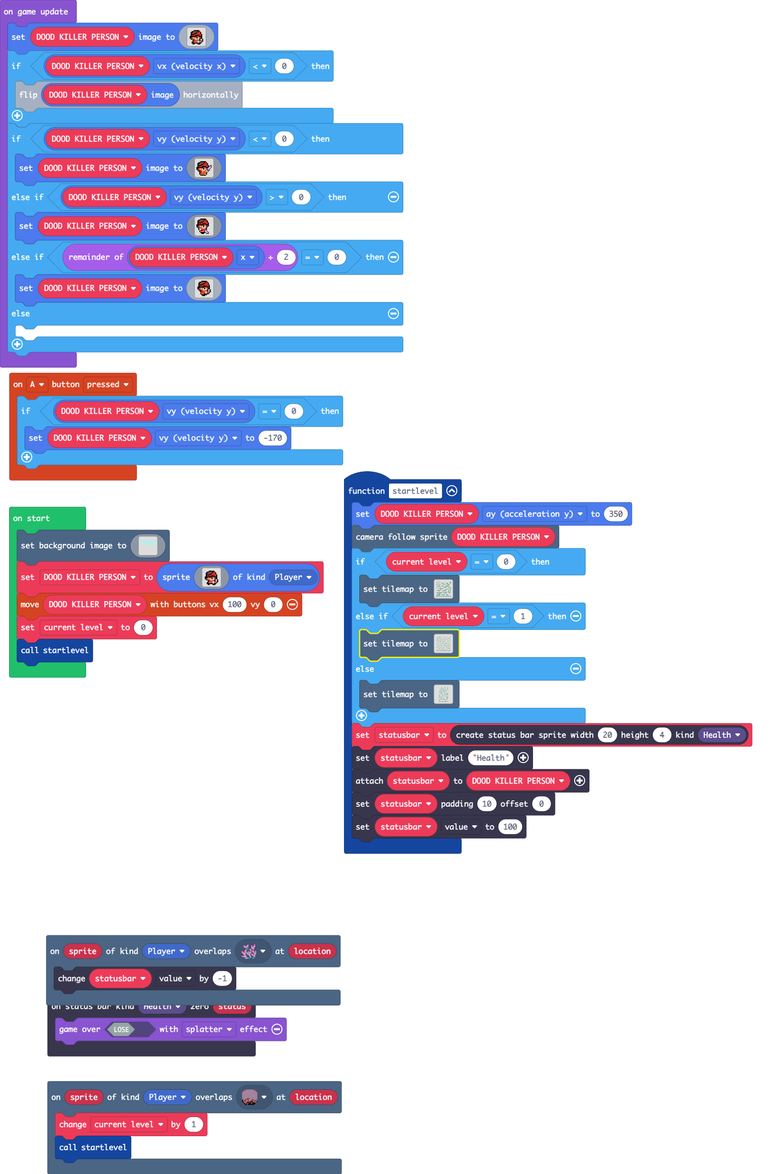
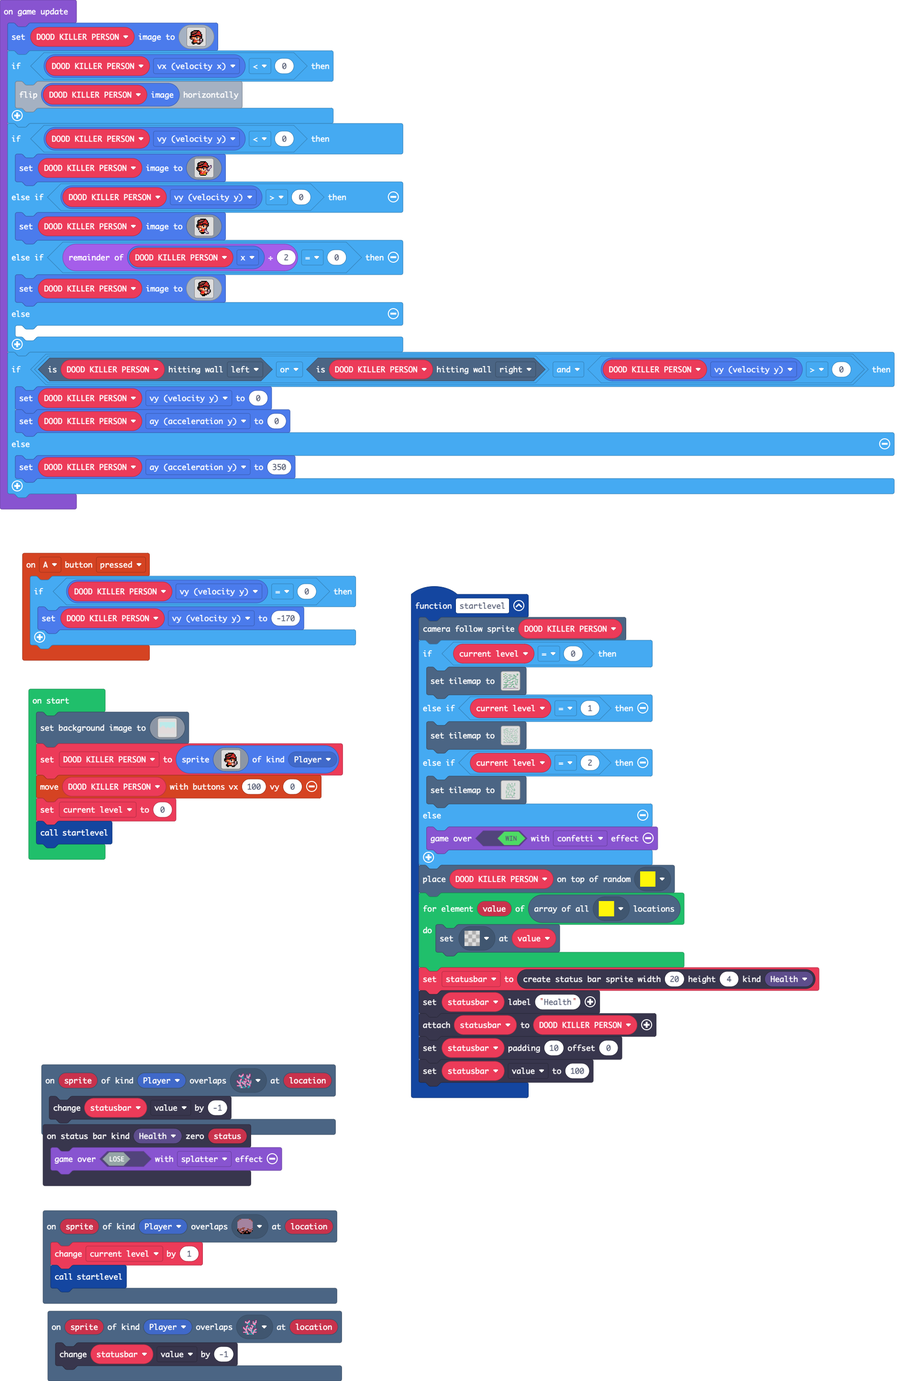
Update pxt.json, main.blocks, main.ts, tilemap.g.jres, tilemap.g.ts, images.g.jres, images.g.ts

diff --git a/tilemap.g.ts b/tilemap.g.ts
@@ -46,7 +46,7 @@ namespace myTiles {
 . . . . . . . . . . . . . . . . 
 `, [myTiles.transparency16], TileScale.Sixteen);
             case "level1":
[2 lines of base64/hex data omitted]
 ....222.......................
 ...........................222
 .22.....2....................2
@@ -77,9 +77,9 @@ namespace myTiles {
 .2222222.............222......
 ..............................
 ..............................
-`, [myTiles.transparency16,sprites.builtin.forestTiles1,sprites.builtin.forestTiles2,sprites.builtin.forestTiles3,sprites.builtin.forestTiles4,sprites.builtin.forestTiles8,sprites.builtin.coral3,sprites.builtin.forestTiles0], TileScale.Sixteen);
+`, [myTiles.transparency16,sprites.builtin.forestTiles1,sprites.builtin.forestTiles2,sprites.builtin.forestTiles3,sprites.builtin.forestTiles4,sprites.builtin.forestTiles8,sprites.builtin.coral3,sprites.builtin.forestTiles0,myTiles.tile1], TileScale.Sixteen);
             case "level4":
-            case "level4":return tiles.createTilemap(hex`3200320000000000000000000000000000000000000000000000000000000000000000000000000000000000000000000000000000000000000000000000000000000000000000000000000000000000000000000000000000000000000000000000000000000000000000000000000000000000010101010101000000000000000000000000000000000000000000000000000000000101010100000000000000000000010101000000000000000000000000000000000000000000000000000000000000000000000000000000000000000001010101000000000000000000000000010103030301010000010101010100000000000000000000000000000000000000000000000000000000000000000000000000000000000001000000000000000000000000000000000000000000000101010101000000000000000000000000000000000000000000000000000000000000000000000000000001010000000000000000000001010000000001010101010000000000000000000000000000000000000000000101010101010000000000000000000000000000000000010100000000000000000000000000000000000000000000000000000000000000000000000000000000000000000000000001000000000000000000000101010000000001010303030000000001000000000000000000000000010103030301000000010100000000010000000000000000000000000000000000000000000100000000000000000000000000000000000100000000000000010101000000000000000000000000000000000000000001010000000001010100000000000000000000000000000000000001000000000000000000000000000000000000000000010000000000000000010100000000000000000100000000000000000000000101010101010303030301010103010000000000000000000000000000030000000101010101010000000000000000000000000000000000000000000000000000000000000000000000000000000003000000000000000001010000010103010000000000000000000000000000000000000000000000000000000000000000000100000000000000000000000000000001010000000000000101000000000000000000000000000000000001030300000000000000000000000000000000000000000001010101000000000000000000010103010000000000010101010000000101000000000000000000000000000000000000000000000000000000000001010101000001000000000000000000000000000000000000000000000001010101000000000000000000000000000101010000000000000000000000000000000000000000000000000000000000000000000100000000000001000000000000010000000000000000000000000000000000000000000000000000000000000000000000010303000000000100000000000000000000000000000000000000000000000000000000000100000000000000000000000000000000000000010000000000000000000000000000010100000000000100000001000000010000000000000000000000000000000000000001000000000101010303010100000000010100000001010000000100000001000000000000000000000000000000000001010100000000000000000000000000000001000000000300000101010000000100000000000000000101000000000000000000000000000000000000000000000101000000000103030000000000000101000000000000000000000100000000000000000000000000000000000000000000000101000000000000000000000000000000000000000000000000010100000000000000000101000000000000000000000000000101010100000000000000000000000000000000000000000000010101000000010101010101000000010000000001000000000000010000000000000000000000000001000000000000000000000000000000000000000000000001000000000001000000000000000000000000000101010000000300000000000000000000000000000000000000000000000100000000000100000000000000000000010000010000000000030000000000000000000000000000000000000000000001010000000000010103030100000000000100000001000000000001000000000000000000010101010000000000000103030100000000000000000000010100000000010000000100000001010100000000000000000000000001010000000000010000000000000000000000000000000000010100000001010000010100000000000000000000000000000001030300000000000000000000000000000000000000010101000000010300000001000000000000000000000000000000000000000000000000000000000000000000000000000000000000000000000000000000000000000000010100000000000000000000000000000000000101010303010000000000000000000000000000000000000000000000000000000100000100000000000000000101010000000000000000010000000000000000000000000000000000010000000000000000010303010000000000000101000000000000000000000001010000000000010101010101010000000101000000000000000000000000000000000001010000000000000000000000000001000000000000000000000001010101010000000000000000000000000000010101010100000000000000000000000000000000000000000000000000000000000000000000000000000000000000000000000000000000000000010101010000000000000000000000000000000000000101000000000301000000000000000000000000000000000000000101000001010100000000000001010000000000000001010000000000010000000000000000000000000000000000000000000000000000010101000000000100000000000000030100000000000101000000000000000000000000000101010100000000000000000000000000000001000000000000010101000000000000010000000000000101010100000000000000010100000000000300000000000001010100000000000001000000000000000001000000000000000000010100000000000000010100000000030000000001010100000001010100000000000000000000010300000000000000000000010101000000000000000103000001010000000000000101010100000000000000000000000101000000000000000000000000000000000000000000000000000001010101000000000000000000000000000000000001010000000000000303030303030303030303030303030303030303030303030303030303030303030303030303030303030303030303020202`, img`
+            case "level4":return tiles.createTilemap(hex`3200320000000000000000000000000000000000000000000000000000000000000000000000000000000000000000000000000000000000000000000000000000000000000000000000000000000000000000000000000000000000000000000000000000000000000000000000000000000000010101010101000000000000000000000000000000000000000000000000000000000101010100000000000000000000010101000000000000000000000000000000000000000000000000000000000000000000000000000000000000000001010101000000000000000000000000010103030301010000010101010100000000000000000000000000000004000000000000000000000000000000000000000000000000000001000000000000000000000000000000000000000000000101010101000000000000000000000000000000000000000000000000000000000000000000000000000001010000000000000000000001010000000001010101010000000000000000000000000000000000000000000101010101010000000000000000000000000000000000010100000000000000000000000000000000000000000000000000000000000000000000000000000000000000000000000001000000000000000000000101010000000001010303030000000001000000000000000000000000010103030301000000010100000000010000000000000000000000000000000000000000000100000000000000000000000000000000000100000000000000010101000000000000000000000000000000000000000001010000000001010100000000000000000000000000000000000001000000000000000000000000000000000000000000010000000000000000010100000000000000000100000000000000000000000101010101010303030301010103010000000000000000000000000000030000000101010101010000000000000000000000000000000000000000000000000000000000000000000000000000000003000000000000000001010000010103010000000000000000000000000000000000000000000000000000000000000000000100000000000000000000000000000001010000000000000101000000000000000000000000000000000001030300000000000000000000000000000000000000000001010101000000000000000000010103010000000000010101010000000101000000000000000000000000000000000000000000000000000000000001010101000001000000000000000000000000000000000000000000000001010101000000000000000000000000000101010000000000000000000000000000000000000000000000000000000000000000000100000000000001000000000000010000000000000000000000000000000000000000000000000000000000000000000000010303000000000100000000000000000000000000000000000000000000000000000000000100000000000000000000000000000000000000010000000000000000000000000000010100000000000100000001000000010000000000000000000000000000000000000001000000000101010303010100000000010100000001010000000100000001000000000000000000000000000000000001010100000000000000000000000000000001000000000300000101010000000100000000000000000101000000000000000000000000000000000000000000000101000000000103030000000000000101000000000101000000000100000000000000000000000000000000000000000000000101000000000000000000000000000000000000000000000000010100000000000000000101000000000000000000000000000101010100000000000000000000000000000000000000000000010101000000010101010101000000010000000001000000000000010000000000000000000000000001000000000000000000000000000000000000000000000001000000000001000000000000000000000000000101010000000300000000000000000000000000000000000000000000000100000000000100000000000000000000010000010000000000030000000000000000000000000000000000000000000001010000000000010103030100000000000100000001000000000001000000000000000000010101010000000000000103030100000000000000000000010100000000010000000100000001010100000000000000000000000001010000000000010000000000000000000000000000000000010100000001010000010100000000000000000000000000000001030300000000000000000000000000000000000000010101000000010300000001000000000000000000000000000000000000000000000000000000000000000000000000000000000000000000000000000000000000000000010100000000000000000000000000000000000101010303010000000000000000000000000000000000000000000001010000000100000100000000000000000101010000000000000000010000000000000000000000000000000000010000000000000000010303010000000000000101000000000000000000000001010000000000010101010101010000000101000000000000000000000000000000000001010000000000000000000000000001000000000000000000000001010101010000000000000000000000000000010101010100000000000000000000000000000000000000000000000000000000000000000000000000000000000000000000000000000000000000010101010000000000000000000000000000000000000101000000000301000000000000000000000000000000000000000101000001010100000000000001010000000000000001010000000000010000000000000000000000000000000000000000000000000000010101000000000100000000000000030100000000000101000000000000000000000000000101010100000000000000000000000000000001000000000000010101000000000000010000000000000101010100000000000000010100000000000300000000000001010100000000000001000000000000000001000000000000000000010100000000000000010100000000030000000001010100000001010100000000000000000000010300000000000000000000010101000000000000000103000001010000000000000101010100000000000000000000000101000000000000000000000000000000000000000000000000000001010101000000000000000000000000000000000001010000000000000303030303030303030303030303030303030303030303030303030303030303030303030303030303030303030303020202`, img`
 ..................................................
 ..................................................
 ............222222............................2222
@@ -105,7 +105,7 @@ namespace myTiles {
 ..............2..............22.....2...2...2.....
 ..............2....222..22....22...22...2...2.....
 ............222...............2.......222...2.....
-...22......................22....2........22......
+...22......................22....2........22....22
 ....2.......................22....................
 ....22........22.............2222.................
 .....222...222222...2....2......2.............2...
@@ -116,7 +116,7 @@ namespace myTiles {
 .........22.....2.................22...22..22.....
 ..........2.....................222...2....2......
 ..................................................
-.22.................222..2........................
+.22.................222..2......................22
 ...2..2........222........2.................2.....
 ...2..2......22...........22.....2222222...22.....
 ............22.............2...........22222......
@@ -129,10 +129,67 @@ namespace myTiles {
 .....22.......22.........222...222..........2.....
 ......222.......2...22......2222...........22.....
 .....................2222.................22......
-...............................................222
-`, [myTiles.transparency16,sprites.builtin.forestTiles0,sprites.builtin.forestTiles8,sprites.builtin.coral0], TileScale.Sixteen);
+..................................................
+`, [myTiles.transparency16,sprites.builtin.forestTiles0,sprites.builtin.forestTiles8,sprites.builtin.coral0,myTiles.tile1], TileScale.Sixteen);
+            case "level6":
+            case "level6":return tiles.createTilemap(hex`1000100000000000000000000000000000000000000000000000000000000000000000000000000000000000000000000000000000000000000000000000000000000000000000000000000000000000000000000000000000000000000000000000000000000000000000000000000000000000000000000000000000000000000000000000000000000000000000000000000000000000000000000000000000000000000000000000000000000000000000000000000000000000000000000000000000000000000000000000000000000000000000000000000000000000000000000000000000000000000000000000000000000000000000000000000000000000`, img`
+. . . . . . . . . . . . . . . . 
+. . . . . . . . . . . . . . . . 
+. . . . . . . . . . . . . . . . 
+. . . . . . . . . . . . . . . . 
+. . . . . . . . . . . . . . . . 
+. . . . . . . . . . . . . . . . 
+. . . . . . . . . . . . . . . . 
+. . . . . . . . . . . . . . . . 
+. . . . . . . . . . . . . . . . 
+. . . . . . . . . . . . . . . . 
+. . . . . . . . . . . . . . . . 
+. . . . . . . . . . . . . . . . 
+. . . . . . . . . . . . . . . . 
+. . . . . . . . . . . . . . . . 
+. . . . . . . . . . . . . . . . 
+. . . . . . . . . . . . . . . . 
+`, [myTiles.transparency16], TileScale.Sixteen);
+            case "level7":
+            case "level7":return tiles.createTilemap(hex`1000100000000000000000000000000000000000000000000000000000000000000000000000000000000000000000000000000000000000000000000000000000000000000000000000000000000000000000000000000000000000000000000000000000000000000000000000000000000000000000000000000000000000000000000000000000000000000000000000000000000000000000000000000000000000000000000000000000000000000000000000000000000000000000000000000000000000000000000000000000000000000000000000000000000000000000000000000000000000000000000000000000000000000000000000000000000000`, img`
+. . . . . . . . . . . . . . . . 
+. . . . . . . . . . . . . . . . 
+. . . . . . . . . . . . . . . . 
+. . . . . . . . . . . . . . . . 
+. . . . . . . . . . . . . . . . 
+. . . . . . . . . . . . . . . . 
+. . . . . . . . . . . . . . . . 
+. . . . . . . . . . . . . . . . 
+. . . . . . . . . . . . . . . . 
+. . . . . . . . . . . . . . . . 
+. . . . . . . . . . . . . . . . 
+. . . . . . . . . . . . . . . . 
+. . . . . . . . . . . . . . . . 
+. . . . . . . . . . . . . . . . 
+. . . . . . . . . . . . . . . . 
+. . . . . . . . . . . . . . . . 
+`, [myTiles.transparency16], TileScale.Sixteen);
+            case "level8":
+            case "level8":return tiles.createTilemap(hex`1000100000000000000000000000000000000000000000000000000000000000000000000000000000000000000000000000000000000000000000000000000000000000000000000000000000000000000000000000000000000000000000000000000000000000000000000000000000000000000000000000000000000000000000000000000000000000000000000000000000000000000000000000000000000000000000000000000000000000000000000000000000000000000000000000000000000000000000000000000000000000000000000000000000000000000000000000000000000000000000000000000000000000000000000000000000000000`, img`
+. . . . . . . . . . . . . . . . 
+. . . . . . . . . . . . . . . . 
+. . . . . . . . . . . . . . . . 
+. . . . . . . . . . . . . . . . 
+. . . . . . . . . . . . . . . . 
+. . . . . . . . . . . . . . . . 
+. . . . . . . . . . . . . . . . 
+. . . . . . . . . . . . . . . . 
+. . . . . . . . . . . . . . . . 
+. . . . . . . . . . . . . . . . 
+. . . . . . . . . . . . . . . . 
+. . . . . . . . . . . . . . . . 
+. . . . . . . . . . . . . . . . 
+. . . . . . . . . . . . . . . . 
+. . . . . . . . . . . . . . . . 
+. . . . . . . . . . . . . . . . 
+`, [myTiles.transparency16], TileScale.Sixteen);
             case "level5":
-            case "level5":return tiles.createTilemap(hex`1900280000000000000000000000000000000000000000000000000000000000000000000000000000000000000000000000000000000000000000000000010000000000000201000000000000010000000000000000000100000000000000010000000000000100000000000100000001000000000000000100000000000001000000000001000000010000000000000001000000000000010000000000010000000100000101000000000000000000000100000000000100000001000000010000000000000100000001000000000001000000010000000100000000000001000000010000000000010000000000000001000000020000010000000000000000000100000000000000010000010100000100000000000000000000000001000000000100000100000001000000000000000201000000010000000101000001000000010000000000000000010000000100000000000000010000000100000000000000000100000001000000000000000100000000000000000000000001000000010000000000000001000000000000000000000000010000000100000000000000010000000000000100000000000100000100000001000000000100000100000001000000000000000001000000010000000000000001000000010000000000000000010000000100000000000000010000000100020000000000000100000001000000000100000100000001010100010000000000000000010000000001000000000001010000000100000000000000000100000000010000000000010000000001000000000000000001000000000100000000000000000000010200000001000000010000000001020000000000000000000100000000010000000101000000010100000000010000000001000000000100000000000000000000000000000100000000010000000001000000000000000000000000000001000000000100000000010000000000000000000000000000010202020000000000000100000000000001000000000000000101010100000000000001000001000002010000000000000001000000000000000000010000010000000100000000000000010000000000010000010100000100000001000000000000000100000000000100000000000001000000010000000100000001000000000001000000000000010000000101000001000001010000000000010000000000000100000000000000010000000000000000000100000000000001000000000000000100000000000000000001000000000000000000000000000001000000000000000000000000000000000000000000000000010000000000000001010101010101010102020202020202020101020202020202`, img`
+            case "level5":return tiles.createTilemap(hex`1900280000000000000000000000000000000000000000000000000000000000000000000000000000000000000000000000000000000000000000000000010000000000000201000000000000010400000000000000000100000000000000010000000000000100000000000100000001000000000000000100000000000001000000000001000000010000000000000001000000000000010000000000010000000100000101000000000000000000000100000000000100000001000000010000000000000100000001000000000001000000010000000100000000000001000000010000000000010000000000000001000000020000010000000000000000000100000000000000010000010100000100000000000000000000000001000000000100000100000001000000000000000201000000010000000101000001000000010000000000000000010000000100000000000000010000000100000000000000000100000001000000000000000100000000000000000000000001000000010000000000000001000000000000000000000000010000000100000000000000010000000000000100000000000100000100000001000000000100000100000001000000000000000001000000010000000000000001000000010000000000000000010000000100000000000000010000000100020000000000000100000001000000000100000100000001010100010000000000000000010000000001000000000001010000000100000000000000000100000000010000000000010000000001000000000000000001000000000100000000000000000000010200000001000000010000000001020000000000000000000100000000010000000101000000010100000000010000000001000000000100000000000000000000000000000100000000010000000001000000000000000000000000000001000000000100000000010000000000000000000000000000010202020000000000000100000000000001000000000000000101010100000000000001000001000002010000000000000001000000000000000000010000010000000100000000000000010000000000010000010100000100000001000000000000000100000000000100000000000001000000010000000100000001000000000001000000000000010000000101000001000001010000000000010000000000000100000000000000010000000000000000000100000000000001000000000000000100000000000000000001000000000000000000000000000001000000000000000300000000000000000000000000000000010000000000000001010101010101010102020202020202020101020202020202`, img`
 .........................
 .........................
 ........2.......2......2.
@@ -173,7 +230,7 @@ namespace myTiles {
 ..2..............2.......
 .................2.......
 222222222........22......
-`, [myTiles.transparency16,sprites.builtin.forestTiles0,sprites.builtin.coral0], TileScale.Sixteen);
+`, [myTiles.transparency16,sprites.builtin.forestTiles0,sprites.builtin.coral0,myTiles.tile1,sprites.builtin.forestTiles8], TileScale.Sixteen);
         }
         return null;
     })

diff --git a/images.g.ts b/images.g.ts
@@ -3,61 +3,7 @@ namespace myImages {
 
     helpers._registerFactory("image", function(name: string) {
         switch(helpers.stringTrim(name)) {
-            case "image3":return img`
-. . . . 2 2 2 2 2 e . . . . . . 
-. . . 2 2 2 2 d 2 2 e . . . . . 
-. . e 2 2 2 2 2 2 2 e . . . . . 
-. . e 2 2 2 2 2 2 2 e . . . . . 
-. . e 2 2 2 2 2 e f f c c . . . 
-. . e e 2 2 e f f f f b c . . . 
-. e e e f e 2 b f f f d c . . . 
-e e 2 2 d f 2 1 1 1 1 b c . . . 
-e e 2 2 d f e e c c c . . . . . 
-b 1 1 d e 2 2 e e c . . . . . . 
-. f f e 2 2 2 2 e . . . . . . . 
-. . f f d d 2 2 f f d d . . . . 
-. . f f d d e e f f d d . . . . 
-. . . f f f f . . . . . . . . . 
-. . e e e f f f . . . . . . . . 
-. . e e e e f f f . . . . . . . 
-`;
-            case "image6":return img`
-...........fffffff...ccfff..........
-..........fbbbbbbbffcbbbbf..........
-..........fbb111bbbbbffbf...........
-..........fb11111ffbbbbff...........
-..........f1cccc1ffbbbbbcff.........
-..........ffc1c1c1bbcbcbcccf........
-...........fcc3331bbbcbcbcccf..ccccc
-............c333c1bbbcbcbccccfcddbbc
-............c333c1bbbbbbbcccccddbcc.
-............c333c11bbbbbccccccbbcc..
-...........cc331c11bbbbccccccfbccf..
-...........cc13c11cbbbcccccbbcfccf..
-...........c111111cbbbfdddddc.fbbcf.
-............cc1111fbdbbfdddc...fbbf.
-..............cccfffbdbbfcc.....fbbf
-....................fffff........fff
-`;
             case "image7":return img`
-. . . . . . . . . . . . . . . . 
-. . . . . f f f f f f . . . . . 
-. . . f f e e e e f 2 f . . . . 
-. . f f e e e e f 2 2 2 f . . . 
-. . f e e e f f e e e e f . . . 
-. . f f f f e e 2 2 2 2 e f . . 
-. . f e 2 2 2 f f f f e 2 f . . 
-. f f f f f f f e e e f f f . . 
-. f f e 4 4 e b f 4 4 e e f . . 
-. f e e 4 d 4 1 f d d e f f . . 
-. . f e e e 4 d d d d f d d f . 
-. . . . f e e 4 e e e f b b f . 
-. . . . f 2 2 2 4 d d e b b f . 
-. . . f f 4 4 4 e d d e b f . . 
-. . . f f f f f f e e f f . . . 
-. . . . f f . . . f f f . . . . 
-`;
-            case "image9":return img`
 . . . . . . . . . . . . . . . . 
 . . . . . f f f f f f . . . . . 
 . . . f f e e e e f 2 f . . . . 
@@ -128,42 +74,6 @@ f e e 4 d 4 1 f d d e f . . . .
 . . . f 4 4 4 4 c d d c . . . . 
 . . . . f f f f f c d d c . . . 
 . . . . . f f f . . c c c . . . 
-`;
-            case "image12":return img`
-. . . . . . . . . . . . . . . . 
-. . . . . f f f f f f . . . . . 
-. . . f f e e e e f 2 f . . . . 
-. . f f e e e e f 2 2 2 f . . . 
-. . f e e e f f e e e e f . . . 
-. . f f f f e e 2 2 2 2 e f . . 
-. . f e 2 2 2 f f f f e 2 f . . 
-. f f f f f f f e e e f f f . . 
-. f f e 4 4 e b f 4 4 e e f . . 
-. f e e 4 d 4 1 f d d e f f . . 
-. . f e e e 4 d d d d f d d f . 
-. . . . f e e 4 e e e f b b f . 
-. . . . f 2 2 2 4 d d e b b f . 
-. . . f f 4 4 4 e d d e b f . . 
-. . . f f f f f f e e f f . . . 
-. . . . f f . . . f f f . . . . 
-`;
-            case "image14":return img`
-. . . . . . . . . . . . . . . . 
-. . . . . f f f f f f . . . . . 
-. . . f f e e e e f 2 f . . . . 
-. . f f e e e e f 2 2 2 f . . . 
-. . f e e e f f e e e e f . . . 
-. . f f f f e e 2 2 2 2 e f . . 
-. . f e 2 2 2 f f f f e 2 f . . 
-. f f f f f f f e e e f f f . . 
-. f f e 4 4 e b f 4 4 e e f . . 
-. f e e 4 d 4 1 f d d e f f . . 
-. . f e e e 4 d d d d f d d f . 
-. . . . f e e 4 e e e f b b f . 
-. . . . f 2 2 2 4 d d e b b f . 
-. . . f f 4 4 4 e d d e b f . . 
-. . . f f f f f f e e f f . . . 
-. . . . f f . . . f f f . . . . 
 `;
             case "image10":return img`
 9999999999999999999999999999999999999999999999999999999999999999999999999999999999999999999999999999999999999999999999999999999999999999999999999999999999999999
@@ -286,6 +196,24 @@ dddddddddddddddddddddddddddddddddddddddddddddddddddddddddddddddddddddddddddddddd
 dddddddddddddddddddddddddddddddddddddddddddddddddddddddddddddddddddddddddddddddddddddddddddddddddddddddddddddddddddddddddddddddddddddddddddddddddddddddddddddddd
 dddddddddddddddddddddddddddddddddddddddddddddddddddddddddddddddddddddddddddddddddddddddddddddddddddddddddddddddddddddddddddddddddddddddddddddddddddddddddddddddd
 dddddddddddddddddddddddddddddddddddddddddddddddddddddddddddddddddddddddddddddddddddddddddddddddddddddddddddddddddddddddddddddddddddddddddddddddddddddddddddddddd
+`;
+            case "image18":return img`
+. . . . . . . . . . . . . . . . 
+. . . . . f f f f f f . . . . . 
+. . . f f e e e e f 2 f . . . . 
+. . f f e e e e f 2 2 2 f . . . 
+. . f e e e f f e e e e f . . . 
+. . f f f f e e 2 2 2 2 e f . . 
+. . f e 2 2 2 f f f f e 2 f . . 
+. f f f f f f f e e e f f f . . 
+. f f e 4 4 e b f 4 4 e e f . . 
+. f e e 4 d 4 1 f d d e f f . . 
+. . f e e e 4 d d d d f d d f . 
+. . . . f e e 4 e e e f b b f . 
+. . . . f 2 2 2 4 d d e b b f . 
+. . . f f 4 4 4 e d d e b f . . 
+. . . f f f f f f e e f f . . . 
+. . . . f f . . . f f f . . . . 
 `;
         }
         return null;

diff --git a/main.ts b/main.ts
@@ -9,15 +9,23 @@ controller.A.onEvent(ControllerButtonEvent.Pressed, function () {
 statusbars.onZero(StatusBarKind.Health, function (status) {
     game.over(false, effects.splatter)
 })
+scene.onOverlapTile(SpriteKind.Player, sprites.builtin.coral0, function (sprite, location) {
+    statusbar.value += -1
+})
 function startlevel () {
-    DOOD_KILLER_PERSON.ay = 350
     scene.cameraFollowSprite(DOOD_KILLER_PERSON)
     if (current_level == 0) {
         tiles.setTilemap(tilemap`level1`)
     } else if (current_level == 1) {
         tiles.setTilemap(tilemap`level4`)
-    } else {
+    } else if (current_level == 2) {
         tiles.setTilemap(tilemap`level5`)
+    } else {
+        game.over(true, effects.confetti)
+    }
+    tiles.placeOnRandomTile(DOOD_KILLER_PERSON, assets.tile`tile`)
+    for (let value of tiles.getTilesByType(assets.tile`tile`)) {
+        tiles.setTileAt(value, assets.tile`transparency16`)
     }
     statusbar = statusbars.create(20, 4, StatusBarKind.Health)
     statusbar.setLabel("Health")
@@ -256,5 +264,11 @@ game.onUpdate(function () {
             `)
     } else {
     	
+    }
+    if ((DOOD_KILLER_PERSON.isHittingTile(CollisionDirection.Left) || DOOD_KILLER_PERSON.isHittingTile(CollisionDirection.Right)) && DOOD_KILLER_PERSON.vy > 0) {
+        DOOD_KILLER_PERSON.vy = 0
+        DOOD_KILLER_PERSON.ay = 0
+    } else {
+        DOOD_KILLER_PERSON.ay = 350
     }
 })
